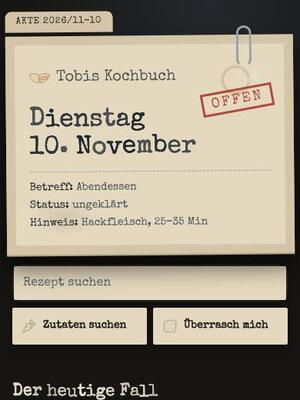
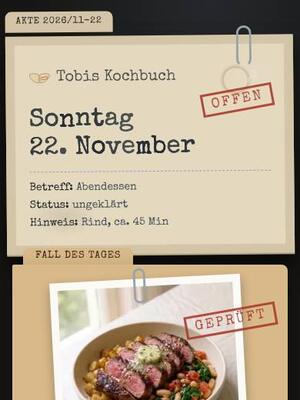
Zwei Städte, Die Insel, Akte: eigener Aufbau (geteilte Stadt, Stationsrechner, Fallakte)
Claude-Session: https://claude.ai/code/session_013PTjiN2vxWXEUNgaQEpBeg

diff --git a/assets/skins/akte.css b/assets/skins/akte.css
@@ -148,3 +148,34 @@ html.skin-akte .nowCooking:not(#_x#_y){background:#D4C5A9 !important;color:#1A1A
 html.skin-akte .nowCooking:not(#_x#_y) :is(.nowCookingTitle,.nowCookingSub){color:#1A1A1A !important}
 html.skin-akte :is(.listGroup,.freezerCard):not(#_x#_y),html.skin-akte body:not(.layout-home) .card:not(.recipeCard):not(#_x#_y){background-image:none !important}
 html.skin-akte body .segBtn.active:not(#_x#_y){color:#1A1A1A !important}
+
+/* Dez. 2026, mehr eigener Charakter (akte.js): aufgeschlagene Mappe „Fall des Tages“, Mappenstapel als Liste, Sofortbilder */
+.akFolder{position:relative;margin:26px 0 10px}
+.akTab{position:absolute;left:14px;top:-22px;padding:4px 16px 6px;background:#D9B98A;border-radius:8px 8px 0 0;font:400 .8125rem "Skin Akte", "American Typewriter", "Courier New", monospace;color:#3A2A16;text-transform:uppercase;letter-spacing:.06em}
+.akSheet{position:relative;display:flex;flex-direction:column;gap:14px;padding:18px 16px 20px;background:#D9B98A;color:#2B1D14;text-decoration:none;border-radius:2px 8px 8px 8px;box-shadow:0 12px 26px rgba(0,0,0,.35)}
+.akPola{position:relative;align-self:center;width:min(76%, 300px);padding:10px 10px 34px;background:#FBFAF6;box-shadow:0 6px 14px rgba(0,0,0,.3);transform:rotate(-3deg)}
+.akPola::before{content:"";position:absolute;left:44%;top:-14px;width:16px;height:46px;border:3px solid #9AA3AA;border-radius:10px;z-index:1}
+.akPola img{display:block;width:100%;aspect-ratio:1;object-fit:cover}
+.akPola i{position:absolute;left:0;right:0;bottom:8px;text-align:center;font:400 1rem "Skin Filzstift", "Skin Feder", cursive;font-style:normal;color:#2B3A48}
+.akType{padding:12px;background:#FBFAF6;font:400 .9375rem/1.6 "Skin Akte", "American Typewriter", "Courier New", monospace;color:#1A1A1A;background-image:repeating-linear-gradient(transparent 0 23px, rgba(43,58,72,.18) 23px 24px)}
+.akType b{font-weight:700}
+.akStamp{position:absolute;right:14px;top:18px;padding:4px 10px;border:3px solid #A93226;color:#A93226;font:700 1rem "Skin Akte", "American Typewriter", "Courier New", monospace;text-transform:uppercase;letter-spacing:.1em;transform:rotate(12deg);opacity:.85}
+html.skin-akte.akList:not(#_x#_y) #recipeGrid{display:grid !important;grid-template-columns:repeat(2,minmax(0,1fr)) !important;gap:34px 14px !important;padding-top:18px !important}
+@media (min-width:700px){html.skin-akte.akList:not(#_x#_y) #recipeGrid{grid-template-columns:repeat(3,minmax(0,1fr)) !important}}
+html.skin-akte.akList:not(#_x#_y) #recipeGrid .linkCard{margin:0 !important}
+html.skin-akte.akList:not(#_x#_y) #recipeGrid .recipeCard{position:relative;overflow:visible !important;padding:10px 10px 12px !important;background:#D9B98A !important;border-radius:2px 8px 8px 8px !important;box-shadow:0 8px 18px rgba(0,0,0,.3) !important;border:0 !important}
+html.skin-akte.akList:not(#_x#_y) #recipeGrid .recipeCard::before{content:var(--az);position:absolute;left:0;top:-20px;padding:3px 10px 4px;background:#D9B98A;border-radius:6px 6px 0 0;font:400 .6875rem "Skin Akte", "American Typewriter", "Courier New", monospace;color:#3A2A16;white-space:nowrap}
+html.skin-akte.akList:not(#_x#_y) #recipeGrid .rcImg{padding:6px 6px 18px;background:#FBFAF6;border-radius:0 !important;aspect-ratio:auto !important;box-shadow:0 3px 8px rgba(0,0,0,.25);transform:rotate(-2deg)}
+html.skin-akte.akList:not(#_x#_y) #recipeGrid .linkCard:nth-child(even) .rcImg{transform:rotate(2deg)}
+html.skin-akte.akList:not(#_x#_y) #recipeGrid .rcImg img{display:block;width:100%;aspect-ratio:1;object-fit:cover}
+html.skin-akte.akList:not(#_x#_y) #recipeGrid .rcBody{padding:10px 2px 0 !important}
+html.skin-akte.akList:not(#_x#_y) #recipeGrid .recipeTitle{font:400 .9375rem/1.25 "Skin Akte", "American Typewriter", "Courier New", monospace !important;color:#2B1D14 !important;text-transform:uppercase}
+html.skin-akte.akList:not(#_x#_y) #recipeGrid .recipeMeta{color:#4A3A26 !important;font:400 .75rem "Skin Akte", "American Typewriter", "Courier New", monospace !important}
+html.skin-akte.akList:not(#_x#_y) #recipeGrid .recipeMeta>:nth-child(n+2){display:none !important}
+html.skin-akte:not(#_x#_y) .recipePageHero{padding:12px 12px 44px !important;background:#FBFAF6 !important;transform:rotate(-1.2deg);box-shadow:0 10px 24px rgba(0,0,0,.35) !important;border-radius:0 !important;overflow:visible !important;height:auto !important;max-height:none !important;aspect-ratio:auto !important;display:flex !important;flex-direction:column;margin-top:64px !important}
+html.skin-akte:not(#_x#_y) .recipePageHero::before{content:"" !important;display:block !important;position:absolute !important;left:40% !important;top:-18px !important;width:20px !important;height:56px !important;border:3px solid #9AA3AA !important;border-radius:12px !important;background:none !important;z-index:3}
+html.skin-akte:not(#_x#_y) .recipePageHero::after{display:none !important}
+html.skin-akte:not(#_x#_y) .recipePageHero img.recipeHeroImg{position:static !important;width:100% !important;height:auto !important;aspect-ratio:4/3;object-fit:cover;transform:none !important;border-radius:0 !important}
+html.skin-akte:not(#_x#_y) .recipeHeroText{position:static !important;background:none !important;padding:12px 4px 0 !important}
+html.skin-akte:not(#_x#_y) .recipeHeroText :is(.recipeName,.recipeSubtitle){color:#1A1A1A !important;text-shadow:none !important}
+html.skin-akte:not(#_x#_y) .recipeHeroText .recipeSubtitle{display:block !important;-webkit-line-clamp:unset !important}

diff --git a/assets/skins/zweistaedte.css b/assets/skins/zweistaedte.css
@@ -158,3 +158,39 @@ html.skin.skin-zweistaedte:not(._a):not(._b):not(._c):not(._d):not(._e):not(._f)
 .skIntro-zweistaedte .ivWord{position:absolute;bottom:22%;font:700 clamp(28px,8vw,56px) "Skin Deko", sans-serif;letter-spacing:.24em;text-transform:uppercase;color:#E8E2D5;text-shadow:0 0 18px rgba(0,240,255,.6);animation:ivFadeUp .8s ease 1.7s both}
 html.skin-zweistaedte body.fieldPage .homeQuickBtn:not(#_x#_y){font-size:var(--fs12) !important;letter-spacing:.02em !important;white-space:nowrap !important;color:#F4EFE4 !important;background:linear-gradient(160deg,#22305A,#17203A) !important;gap:6px !important;padding-inline:10px !important}
 html.skin-zweistaedte body.fieldPage .pageTitleBlock .h1:not(#_x#_y){font-size:min(7.6vw,2rem) !important;letter-spacing:.04em !important;hyphens:manual !important;-webkit-hyphens:manual !important;overflow-wrap:normal !important}
+
+/* Dez. 2026, mehr eigener Charakter (zweistaedte.js): geteilter Start oben gold / unten neon, Liste im Wechsel, Bogenrahmen */
+.zwSplit{margin:16px calc(-16px - env(safe-area-inset-right)) 8px calc(-16px - env(safe-area-inset-left));position:relative}
+.zwUp,.zwDown{display:grid;grid-template-columns:42% 1fr;align-items:center;gap:6px 16px;padding:22px 18px;text-decoration:none}
+.zwUp{background:linear-gradient(180deg,#F5E6C0,#E3C27A);color:#2A1E0A}
+.zwDown{background:#0B0D1A;color:#E9F7FF;grid-template-columns:1fr 42%;background-image:linear-gradient(rgba(255,45,170,.08) 1px, transparent 1px),linear-gradient(90deg, rgba(0,240,255,.07) 1px, transparent 1px);background-size:22px 22px}
+.zwUp>*:not(.zwArch),.zwDown>*:not(.zwNeonImg){grid-column:2}
+.zwDown>*:not(.zwNeonImg){grid-column:1;grid-row:auto}
+.zwArch,.zwNeonImg{grid-row:1 / span 3;display:block;overflow:hidden;aspect-ratio:3/4}
+.zwDown .zwNeonImg{grid-column:2}
+.zwArch{border-radius:999px 999px 0 0;box-shadow:0 0 0 3px #F5E6C0, 0 0 0 5px #9C7A2C}
+.zwNeonImg{border-radius:6px;box-shadow:0 0 0 2px #FF2DAA, 0 0 18px rgba(255,45,170,.7), 0 0 36px rgba(0,240,255,.35)}
+.zwArch img,.zwNeonImg img{width:100%;height:100%;object-fit:cover;display:block}
+.zwUp small,.zwDown small{font:600 .75rem/1.3 "Skin Deko", "Avenir Next", "Futura", sans-serif;letter-spacing:.18em;text-transform:uppercase}
+.zwUp small{color:#7A5A16}.zwDown small{color:#00F0FF;text-shadow:0 0 8px #00F0FF}
+.zwUp b,.zwDown b{font:600 1.45rem/1.1 "Skin Deko", "Avenir Next", "Futura", sans-serif}
+.zwDown b{color:#FFFFFF;text-shadow:0 0 10px rgba(255,45,170,.8)}
+.zwUp i,.zwDown i{font-style:normal;font-size:.875rem;opacity:.85}
+.zwGear{position:absolute;left:50%;top:50%;z-index:2;width:58px;height:58px;margin:-29px 0 0 -29px;display:grid;place-items:center;border-radius:50%;background:#9C7A2C;color:#F5E6C0;box-shadow:0 0 0 4px #0B0D1A, 0 0 18px rgba(255,45,170,.6);animation:zwSpin 18s linear infinite}
+.zwGear svg{width:40px;height:40px}
+@keyframes zwSpin{to{transform:rotate(360deg)}}
+html.skin-zweistaedte.zwList:not(#_x#_y) #recipeGrid{display:grid !important;grid-template-columns:repeat(2,minmax(0,1fr)) !important;gap:26px 16px !important}
+@media (min-width:700px){html.skin-zweistaedte.zwList:not(#_x#_y) #recipeGrid{grid-template-columns:repeat(3,minmax(0,1fr)) !important}}
+html.skin-zweistaedte.zwList:not(#_x#_y) #recipeGrid .linkCard{margin:0 !important}
+html.skin-zweistaedte.zwList:not(#_x#_y) #recipeGrid .recipeCard{padding:8px 8px 12px !important;border-radius:0 !important}
+html.skin-zweistaedte.zwList:not(#_x#_y) #recipeGrid .linkCard:nth-child(odd) .recipeCard{background:linear-gradient(180deg,#F5E6C0,#E3C27A) !important;box-shadow:0 0 0 2px #9C7A2C !important;border-radius:999px 999px 4px 4px !important;padding-top:14px !important}
+html.skin-zweistaedte.zwList:not(#_x#_y) #recipeGrid .linkCard:nth-child(odd) .rcImg{border-radius:999px 999px 0 0 !important;aspect-ratio:3/4 !important}
+html.skin-zweistaedte.zwList:not(#_x#_y) #recipeGrid .linkCard:nth-child(odd) :is(.recipeTitle,.recipeMeta){color:#2A1E0A !important;text-align:center;justify-content:center}
+html.skin-zweistaedte.zwList:not(#_x#_y) #recipeGrid .linkCard:nth-child(even) .recipeCard{background:#0B0D1A !important;box-shadow:0 0 0 2px #FF2DAA, 0 0 18px rgba(255,45,170,.45) !important;border-radius:6px !important;transform:translateY(22px)}
+html.skin-zweistaedte.zwList:not(#_x#_y) #recipeGrid .linkCard:nth-child(even) .rcImg{border-radius:3px !important;aspect-ratio:3/4 !important}
+html.skin-zweistaedte.zwList:not(#_x#_y) #recipeGrid .linkCard:nth-child(even) .recipeTitle{color:#FFFFFF !important;text-shadow:0 0 8px rgba(0,240,255,.6)}
+html.skin-zweistaedte.zwList:not(#_x#_y) #recipeGrid .linkCard:nth-child(even) .recipeMeta{color:#9FEFFF !important}
+html.skin-zweistaedte.zwList:not(#_x#_y) #recipeGrid .recipeMeta>:nth-child(n+2){display:none !important}
+html.skin-zweistaedte:not(#_x#_y) .recipePageHero{border-radius:999px 999px 6px 6px !important;box-shadow:0 0 0 4px #E3C27A, 0 0 0 7px #9C7A2C, 0 0 30px rgba(255,45,170,.35) !important}
+@media (prefers-reduced-motion: reduce){.zwGear{animation:none}}
+html.skin-zweistaedte.zwList:not(#_x#_y) #recipeGrid .recipeTitle{font-size:1.0625rem !important;line-height:1.15 !important;hyphens:manual !important;-webkit-line-clamp:3;margin-top:8px}

diff --git a/assets/skins/insel.css b/assets/skins/insel.css
@@ -181,3 +181,28 @@ html.skin-insel .worldClock.wcIdle:not(#_x#_y) .wcFlap{padding:3px 4px 1px !impo
 @media (prefers-reduced-motion: no-preference){
 html.skin-insel :is(.homeGreetingTitle,.pageTitleBlock .h1,.brandWordmark):not(#_x#_y){animation:inFlicker 1.6s steps(1,end) 1 !important}
 }
+
+/* Dez. 2026, mehr eigener Charakter (insel.js): Stationsrechner mit Fallblatt-Uhr, Stationsprotokoll als Liste, Röhrenrahmen */
+.isStation{margin:16px 0 8px;padding:18px 14px 16px;background:#0A0A08;border:10px solid #D8CFB8;border-radius:22px;box-shadow:inset 0 0 40px rgba(255,176,0,.12), 0 10px 24px rgba(0,0,0,.35);text-align:center}
+.isLabel{margin:0;font:400 .75rem/1.4 "Skin Insel", ui-monospace, monospace;letter-spacing:.14em;text-transform:uppercase;color:#C9A24A}
+.isFlap{display:flex;justify-content:center;align-items:center;gap:4px;margin:12px 0 8px}
+.isFlap span{position:relative;display:grid;place-items:center;width:clamp(30px, 10vw, 46px);height:clamp(44px, 14vw, 64px);background:linear-gradient(#22201B 50%, #191712 50%);border-radius:5px;font:400 clamp(1.8rem, 8vw, 2.8rem)/1 "Skin Röhre", "Skin Insel", ui-monospace, monospace;color:#F2E9D0;box-shadow:inset 0 0 0 1px #3A362C}
+.isFlap span::after{content:"";position:absolute;left:0;right:0;top:50%;height:1px;background:#000}
+.isFlap b{color:#C9A24A;font:400 1.6rem "Skin Röhre", "Skin Insel", ui-monospace, monospace;padding:0 2px}
+.isPrompt{display:inline-flex;align-items:center;gap:4px;min-height:44px;margin-top:10px;font:400 1.0625rem "Skin Röhre", "Skin Insel", ui-monospace, monospace;color:#FFB000;text-decoration:none;text-shadow:0 0 6px rgba(255,176,0,.6)}
+.isCaret{display:inline-block;width:.55em;height:1.05em;background:#FFB000;animation:isBlink 1s steps(1) infinite}
+@keyframes isBlink{50%{opacity:0}}
+.isLogHead{display:grid;grid-template-columns:3.4rem 1fr 5.4rem;gap:10px;margin:14px 0 0;padding:6px 10px;background:#1F3B2A;color:#E8E1CF;font:400 .75rem "Skin Insel", ui-monospace, monospace;letter-spacing:.12em;text-transform:uppercase}
+html.skin-insel.isList:not(#_x#_y) #recipeGrid{display:block !important;background:#E8E1CF;padding:0 !important;margin:0 0 18px !important;border:2px solid #1F3B2A}
+html.skin-insel.isList:not(#_x#_y) #recipeGrid .linkCard{display:block;margin:0 !important}
+html.skin-insel.isList:not(#_x#_y) #recipeGrid .recipeCard{display:grid !important;grid-template-columns:3.4rem 1fr 5.4rem;align-items:center;gap:10px;padding:8px 10px !important;background:transparent !important;box-shadow:none !important;border:0 !important;border-bottom:1px dashed rgba(31,59,42,.35) !important;border-radius:0 !important}
+html.skin-insel.isList:not(#_x#_y) #recipeGrid .recipeCard::before{content:var(--no);font:400 .9375rem "Skin Insel", ui-monospace, monospace;color:#1F3B2A}
+html.skin-insel.isList:not(#_x#_y) #recipeGrid .rcImg{grid-column:3;grid-row:1;width:5.4rem !important;aspect-ratio:4/3 !important;border-radius:10px !important;border:4px solid #3A362C;margin:0 !important}
+html.skin-insel.isList:not(#_x#_y) #recipeGrid .rcImg img{width:100%;height:100%;object-fit:cover}
+html.skin-insel.isList:not(#_x#_y) #recipeGrid .rcBody{grid-column:2;grid-row:1;padding:0 !important}
+html.skin-insel.isList:not(#_x#_y) #recipeGrid .recipeTitle{font:400 1rem/1.2 "Skin Insel", ui-monospace, monospace !important;text-transform:uppercase;color:#1B1A16 !important}
+html.skin-insel.isList:not(#_x#_y) #recipeGrid .recipeMeta{font:400 .75rem "Skin Insel", ui-monospace, monospace !important;color:#5A5444 !important}
+html.skin-insel.isList:not(#_x#_y) #recipeGrid .recipeMeta>:nth-child(n+2){display:none !important}
+html.skin-insel:not(#_x#_y) .recipePageHero{border:12px solid #D8CFB8 !important;border-radius:28px !important;box-shadow:inset 0 0 0 2px #3A362C, 0 10px 24px rgba(0,0,0,.35) !important}
+@media (prefers-reduced-motion: reduce){.isCaret{animation:none}}
+html.skin-insel.isList:not(#_x#_y) #recipeGrid .recipeTitle{hyphens:manual !important;-webkit-hyphens:manual !important}

diff --git a/assets/skins/insel.js b/assets/skins/insel.js
@@ -1,0 +1,36 @@
+// Skin „Die Insel“ (Dez. 2026, mehr eigener Charakter): Start = Stationsrechner mit Fallblatt-Uhr „bis zum Abendessen“ (18:30) und
+// Eingabezeile; Rezeptliste = Stationsprotokoll (Protokollnummer, Name, Zeit, kleines Foto in einem Röhrenbildschirm-Rahmen);
+// Rezeptseite: Foto im Röhrenbildschirm-Rahmen mit Protokollkopf.
+(()=>{
+  "use strict";
+  const esc = (t)=> String(t || "").replace(/[&<>"]/g, (c)=> ({ "&": "&amp;", "<": "&lt;", ">": "&gt;", '"': "&quot;" })[c]);
+  const pad = (n)=> String(n).padStart(2, "0");
+
+  function home(api){
+    const g = document.querySelector(".homeGreeting"); if(!g) return;
+    const a = document.getElementById("todayLink"), title = a?.querySelector(".homeFeaturedTitle")?.textContent.trim() || "";
+    const el = api.bit("isStation", "insel");
+    el.innerHTML = `<p class="isLabel">Station · Küche · Rechner 2</p><div class="isFlap" aria-label="Zeit bis zum Abendessen"></div><p class="isLabel">bis zum Abendessen (18:30)</p>
+      ${title ? `<a class="isPrompt" href="${esc(a.getAttribute("href"))}">&gt;: <span>${esc(title.toUpperCase())}</span><i class="isCaret"></i></a>` : ""}`;
+    g.after(el); api.add(()=> el.remove());
+    const flap = el.querySelector(".isFlap");
+    const tick = ()=>{
+      const now = new Date(), t = new Date(now); t.setHours(18, 30, 0, 0); if(t <= now) t.setDate(t.getDate() + 1);
+      let s = Math.round((t - now) / 1000); const h = Math.floor(s / 3600); s -= h * 3600; const m = Math.floor(s / 60); s -= m * 60;
+      flap.innerHTML = [pad(h), pad(m), pad(s)].map((x)=> `<span>${x[0]}</span><span>${x[1]}</span>`).join("<b>:</b>");
+    };
+    tick(); const id = setInterval(tick, 1000); api.add(()=> clearInterval(id));
+  }
+
+  function list(api){
+    const grid = document.getElementById("recipeGrid"); if(!grid) return;
+    grid.querySelectorAll(".linkCard").forEach((c, i)=> c.style.setProperty("--no", `"${String(i * 7 + 4).padStart(3, "0")}"`));
+    if(document.querySelector(".isLogHead")) return;
+    const head = api.bit("isLogHead", "insel");
+    head.innerHTML = `<span>Prot.</span><span>Eintrag</span><span>Dauer</span>`;
+    grid.before(head); api.add(()=> head.remove());
+    document.documentElement.classList.add("isList"); api.add(()=> document.documentElement.classList.remove("isList"));
+  }
+
+  window.KOCHBUCH_FX.insel = { start(api){ if(api.home()) home(api); list(api); }, refresh(api){ list(api); } };
+})();

diff --git a/assets/skins/zweistaedte.js b/assets/skins/zweistaedte.js
@@ -1,0 +1,29 @@
+// Skin „Zwei Städte“ (Dez. 2026, mehr eigener Charakter): Start = geteilter Bildschirm – oben die goldene Stadt (Art-déco-Bogen mit
+// Tagesgericht), unten die Neon-Stadt (schnelles Gericht mit Leuchtrahmen), dazwischen ein Zahnrad-Grat. Rezeptliste im Wechsel
+// gold (Bogenrahmen) und neon (Leuchtrahmen), Rezeptseite mit Bogenrahmen.
+(()=>{
+  "use strict";
+  const esc = (t)=> String(t || "").replace(/[&<>"]/g, (c)=> ({ "&": "&amp;", "<": "&lt;", ">": "&gt;", '"': "&quot;" })[c]);
+  const GEAR = `<svg viewBox="0 0 24 24" aria-hidden="true"><path d="M12 8a4 4 0 100 8 4 4 0 000-8zM10.5 2h3l.5 2.6 2 .9 2.2-1.5 2.1 2.1-1.5 2.2.9 2 2.6.5v3l-2.6.5-.9 2 1.5 2.2-2.1 2.1-2.2-1.5-2 .9-.5 2.6h-3l-.5-2.6-2-.9-2.2 1.5-2.1-2.1 1.5-2.2-.9-2L2 13.5v-3l2.6-.5.9-2L4 5.8l2.1-2.1 2.2 1.5 2-.9z" fill="none" stroke="currentColor" stroke-width="1.4"/></svg>`;
+
+  function home(api){
+    const g = document.querySelector(".homeGreeting"); if(!g) return;
+    const all = api.recipes(); if(!all.length) return;
+    const a = document.getElementById("todayLink"), title = a?.querySelector(".homeFeaturedTitle")?.textContent.trim();
+    const top = all.find((r)=> r.t === title) || all[0];
+    let seed = Math.floor(Date.now() / 864e5) + 7; const quick = all.filter((r)=>{ const z = (r.z || "").split("·")[0]; if(/Std/.test(z)) return false; const n = (z.match(/\d+/g) || []).map(Number); return r !== top && n.length && Math.max(...n) <= 35; });
+    const low = quick.length ? quick[seed % quick.length] : all[(seed * 3) % all.length];
+    const el = api.bit("zwSplit", "zweistaedte");
+    el.innerHTML = `<a class="zwUp" href="${esc(top.u)}"><span class="zwArch"><img src="${esc(top.i)}" alt=""></span><small>Oben · Festtafel</small><b>${esc(top.t)}</b><i>${esc(top.z || "")}</i></a>
+      <div class="zwGear" aria-hidden="true">${GEAR}</div>
+      <a class="zwDown" href="${esc(low.u)}"><span class="zwNeonImg"><img src="${esc(low.i)}" alt=""></span><small>Unten · schnell &amp; heiß</small><b>${esc(low.t)}</b><i>${esc(low.z || "")}</i></a>`;
+    g.after(el); api.add(()=> el.remove());
+  }
+
+  function list(api){
+    if(!document.getElementById("recipeGrid")) return;
+    document.documentElement.classList.add("zwList"); api.add(()=> document.documentElement.classList.remove("zwList"));
+  }
+
+  window.KOCHBUCH_FX.zweistaedte = { start(api){ if(api.home()) home(api); list(api); } };
+})();

diff --git a/assets/skins/akte.js b/assets/skins/akte.js
@@ -1,0 +1,30 @@
+// Skin „Akte“ (Dez. 2026, mehr eigener Charakter): Start = aufgeschlagene Mappe „Fall des Tages“ mit angeklammertem Sofortbild und
+// Stempel; Rezeptliste = Stapel Mappen mit Reitern (Aktenzeichen) und Sofortbild; Rezeptseite: Sofortbild mit Büroklammer, Bericht-Kopf.
+(()=>{
+  "use strict";
+  const esc = (t)=> String(t || "").replace(/[&<>"]/g, (c)=> ({ "&": "&amp;", "<": "&lt;", ">": "&gt;", '"': "&quot;" })[c]);
+
+  function home(api){
+    const g = document.querySelector(".homeGreeting"); if(!g) return;
+    const a = document.getElementById("todayLink"), title = a?.querySelector(".homeFeaturedTitle")?.textContent.trim();
+    if(!title) return;
+    const img = a.querySelector("img")?.currentSrc || a.querySelector("img")?.src || "";
+    const meta = [...a.querySelectorAll(".recipeMeta .metaItem")].map((m)=> m.textContent.trim()).filter(Boolean);
+    const d = new Date();
+    const el = api.bit("akFolder", "akte");
+    el.innerHTML = `<span class="akTab">Fall des Tages</span><a class="akSheet" href="${esc(a.getAttribute("href"))}">
+      ${img ? `<span class="akPola"><img src="${esc(img)}" alt=""><i>Beweisstück A</i></span>` : ""}
+      <span class="akType"><b>Betreff:</b> ${esc(title)}<br><b>Datum:</b> ${d.toLocaleDateString("de-DE")}<br><b>Dauer:</b> ${esc(meta[0] || "unbekannt")}<br><b>Beteiligte:</b> ${esc(meta[1] || "–")}<br><b>Befund:</b> dringend nachkochen</span>
+      <span class="akStamp">Geprüft</span></a>`;
+    g.after(el); api.add(()=> el.remove());
+  }
+
+  function list(api){
+    const grid = document.getElementById("recipeGrid"); if(!grid) return;
+    const y = new Date().getFullYear();
+    grid.querySelectorAll(".linkCard").forEach((c, i)=> c.style.setProperty("--az", `"AZ ${y}-${String(i + 1).padStart(3, "0")}"`));
+    document.documentElement.classList.add("akList"); api.add(()=> document.documentElement.classList.remove("akList"));
+  }
+
+  window.KOCHBUCH_FX.akte = { start(api){ if(api.home()) home(api); list(api); }, refresh(api){ list(api); } };
+})();

diff --git a/sw.js b/sw.js
@@ -1,7 +1,7 @@
 /* Tobis Kochbuch — Service Worker
    Offline: Seiten „netzwerk-zuerst“, aber nach 3 s Warten (schlechter Empfang im Supermarkt) aus dem Cache.
    CSS/JS/Bilder „Cache zuerst“, im Hintergrund aktualisieren. /api/ nie cachen. */
-const VERSION = 'kochbuch-v130';
+const VERSION = 'kochbuch-v131';
 const ASSET_CACHE = `${VERSION}-assets`;
 const IMAGE_CACHE = `${VERSION}-images`;
 const PAGE_CACHE = `${VERSION}-pages`;

diff --git a/CLAUDE.md b/CLAUDE.md
@@ -188,6 +188,11 @@ Nur `/api/*` läuft durch den Worker (`run_worker_first`), alles andere sind sta
     **Zauberschule:** Start = Titelseite der Zeitung „Die Küchenpost“ (Kopf, Schlagzeile = Tagesgericht, Bild atmet leicht, zwei Spalten mit Initiale,
     `.zpFront`), Liste = Zeitungsseite in Spalten (`html.zpList`, jede dritte Meldung ohne Bild). **Jahr 3000:** Comic – Start = Titelbild mit
     Erzählkasten, Sprechblase und „Zack!“-Stern (`.cmCover`), Liste = Comicseite mit großen und kleinen Bildfeldern (`html.cmList`), Rezept mit Ausruf.
+    **Zwei Städte:** Start geteilt – oben goldene Stadt (Bogenrahmen, Tagesgericht), unten Neon-Stadt (schnelles Gericht ≤ 35 Min mit Leuchtrahmen),
+    Zahnrad dazwischen (`.zwSplit`); Liste im Wechsel gold/Bogen und neon/versetzt (`html.zwList`). **Die Insel:** Start = Stationsrechner mit
+    Fallblatt-Uhr bis 18:30 und Eingabezeile (`.isStation`), Liste = Stationsprotokoll mit Nummer, Eintrag, Foto im Röhrenrahmen (`html.isList`).
+    **Akte:** Start = aufgeschlagene Mappe „Fall des Tages“ mit angeklammertem Sofortbild, Schreibmaschinen-Befund und Stempel (`.akFolder`), Liste =
+    Mappen mit Reiter „AZ Jahr-Nr“ und schiefem Sofortbild (`html.akList`), Rezept als Sofortbild mit Büroklammer.
   - **Brigade** ist hell (Edelstahl) mit Schürzenblau `#2E62A8`; ein dunkler Brigade-Look wurde abgelehnt.
   - Die 3D-Köpfe (Three.js) sind im Dez. 2026 entfernt worden.
 - **Leise Bewegung im Standard-Look (Nov. 2026, alle sechs vom Besitzer gewählt; Abschnitt 24 in `styles.css`, nur `html:not(.skin):not(.retro)`):**
